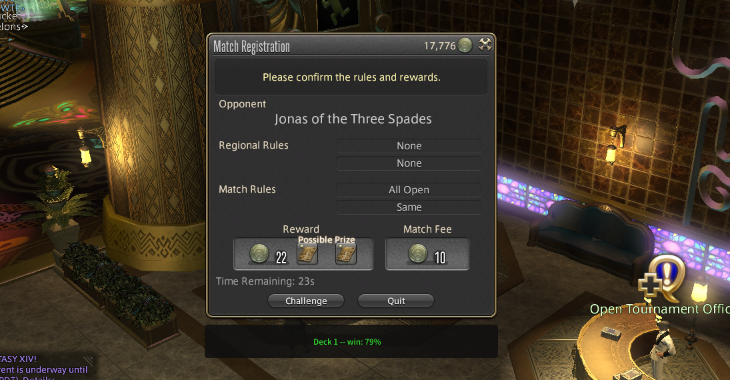
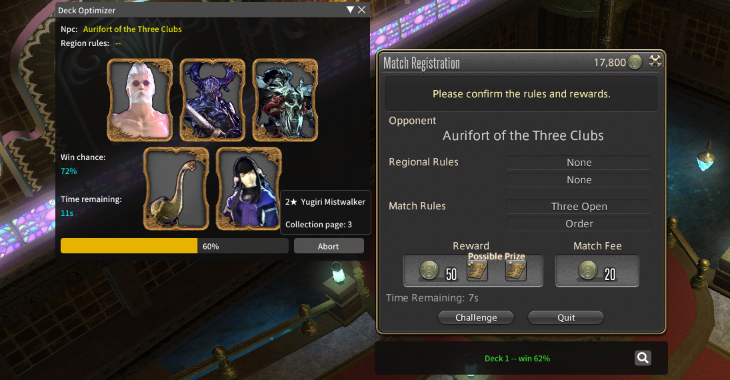
showing win chance in deck optimizer, game logic sync

diff --git a/plugin/PluginWindowDeckOptimize.cs b/plugin/PluginWindowDeckOptimize.cs
@@ -25,6 +25,8 @@ namespace TriadBuddyPlugin
 
         private float optimizerProgress;
         private float optimizerElapsedTime;
+        private float optimizerWinChance;
+        private float pendingWinChance;
         private string optimizerTimeRemainingDesc;
         private bool isOptimizerRunning;
         private int[] pendingCardIds;
@@ -76,11 +78,12 @@ namespace TriadBuddyPlugin
             CacheLocalization();
         }
 
-        private void DeckOptimizer_OnFoundDeck(TriadDeck deck)
+        private void DeckOptimizer_OnFoundDeck(TriadDeck deck, float estWinChance)
         {
             if (deck != null && deck.knownCards != null && deck.knownCards.Count == 5)
             {
                 // buffer card changes to catch multiple fast swaps and reduce number of loaded images
+                pendingWinChance = estWinChance;
 
                 pendingCardIds = new int[5];
                 for (int idx = 0; idx < pendingCardIds.Length; idx++)
@@ -150,6 +153,7 @@ namespace TriadBuddyPlugin
                 }
             }
 
+            optimizerWinChance = -1;
             IsOpen = true;
         }
 
@@ -218,8 +222,11 @@ namespace TriadBuddyPlugin
 
             // stat block
             ImGui.SetCursorPos(new Vector2(currentPos.X, currentPos.Y + cardImagePos[3].Y + ImGui.GetTextLineHeight()));
-            ImGui.Text(locWinChance);
-            ImGui.TextColored(colorResultData, "100%%");    // TODO
+            if (isOptimizerRunning || optimizerWinChance >= 0.0f)
+            {
+                ImGui.Text(locWinChance);
+                ImGui.TextColored(colorResultData, optimizerWinChance < 0 ? "--" : optimizerWinChance.ToString("P0").Replace("%", "%%"));
+            }
 
             if (isOptimizerRunning)
             {
@@ -262,6 +269,9 @@ namespace TriadBuddyPlugin
                     shownCardIds = pendingCardIds;
                     pendingCardIds = null;
 
+                    optimizerWinChance = pendingWinChance;
+                    pendingWinChance = -1;
+
                     for (int idx = 0; idx < shownCardIds.Length; idx++)
                     {
                         var cardOb = TriadCardDB.Get().FindById(shownCardIds[idx]);
@@ -295,6 +305,8 @@ namespace TriadBuddyPlugin
                     optimizerProgress = deckOptimizer.GetProgress() / 100.0f;
 
                     int secondsRemaining = deckOptimizer.GetSecondsRemaining((int)(optimizerElapsedTime * 1000));
+                    optimizerElapsedTime = 0;
+
                     var tspan = TimeSpan.FromSeconds(secondsRemaining);
                     if (tspan.Hours > 0 || tspan.Minutes > 55)
                     {

diff --git a/plugin/PluginWindowDeckEval.cs b/plugin/PluginWindowDeckEval.cs
@@ -69,6 +69,7 @@ namespace TriadBuddyPlugin
             IsOpen = active;
             if (active)
             {
+                GameCardDB.Get().Refresh();
                 UpdateWindowBounds();
             }
         }
